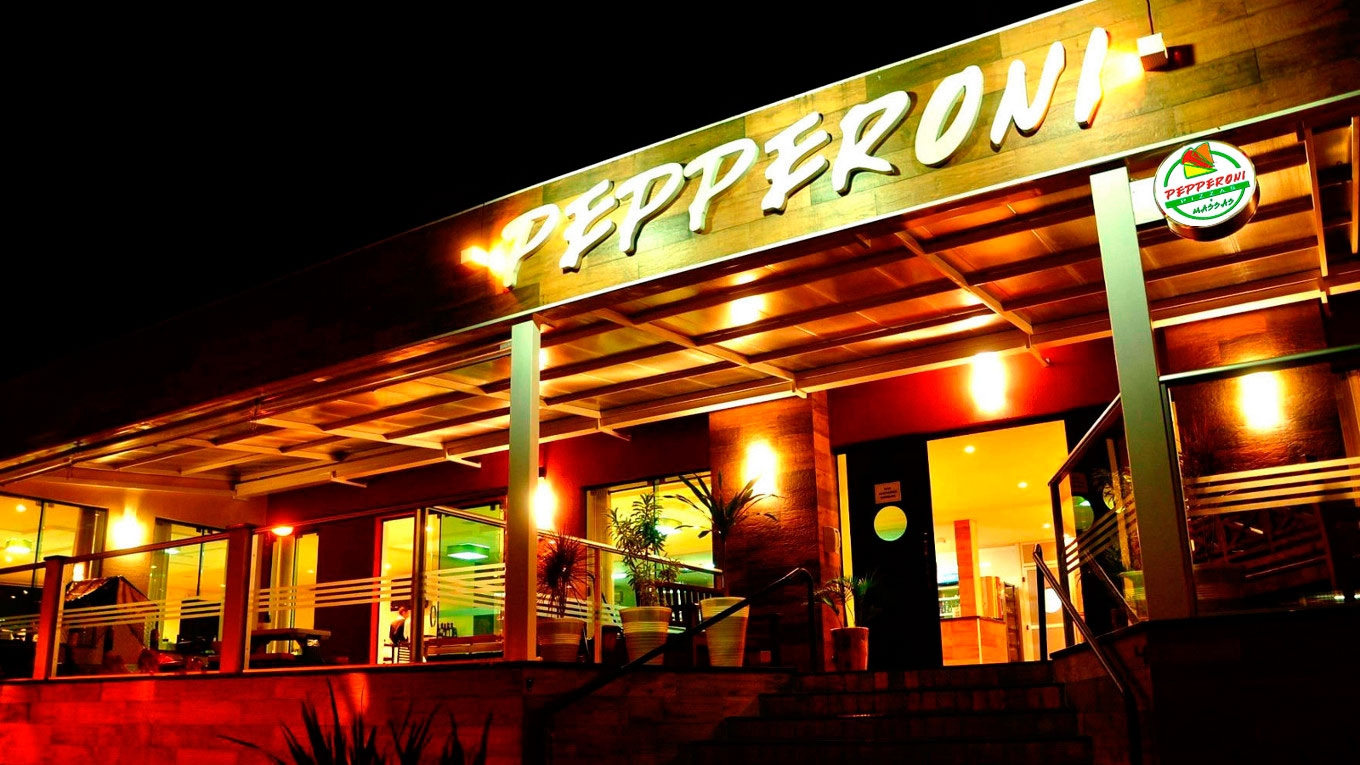
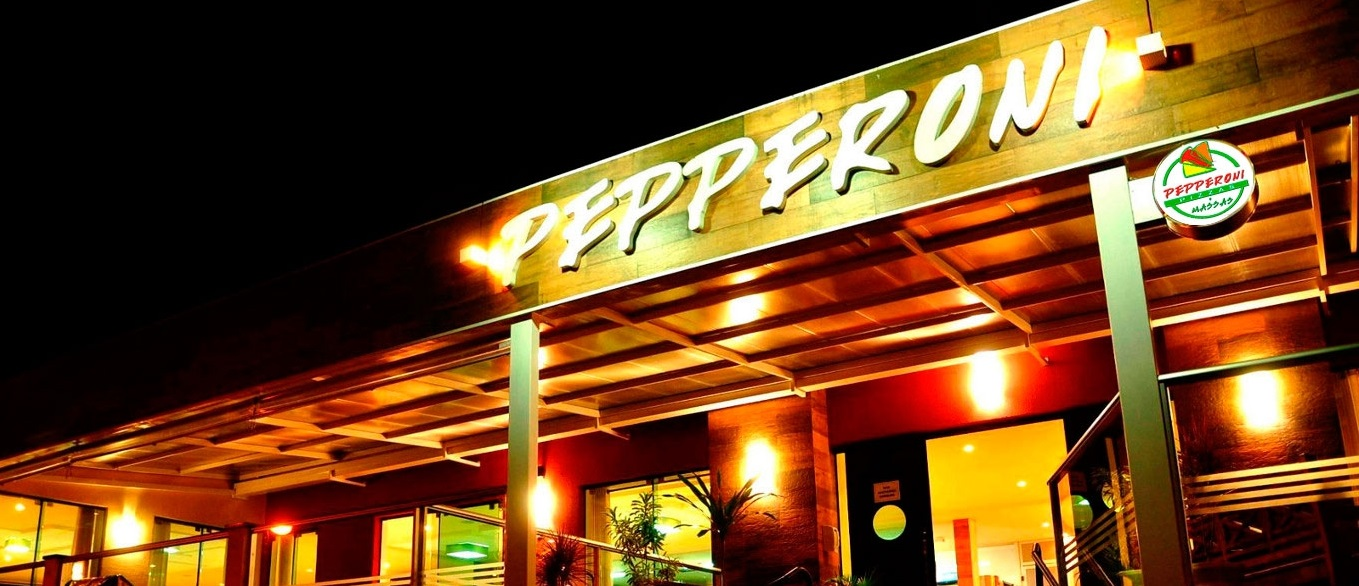
alterações

diff --git a/index.html b/index.html
@@ -24,10 +24,11 @@
 
       <div id="nossacasa">
         <h1>Nossa Casa</h1>
+        <hr/>
+        <div id="fachada">
+          <img src="_imagens/FachadaPizzaria.jpg">
+        </div>
         <p>Em 1999, Carlos de Toledo Domenico criou a PIZZARIA Domenico, unindo a tradição da pizza com a sofisticação informal. E não parou de crescer, evoluir, adotando o lema: “Atender à expectativa dos clientes” como sinônimo de qualidade.</p>
-          <div id="fachada">
-            <img src="_imagens/FachadaPizzaria.jpg">
-          </div>
         <p>A localização tornou-se privilegiada: Haddock Lobo X Alameda Tietê, a porta de entrada dos Jardins. O investimento constante nas instalações, produtos e serviços, faz com que a DOMENICO seja considerada um dos clássicos, na terra das pizzarias.</p>
         <p>Todos os recursos são colocados à disposição dos funcionários, para que a filosofia desde a fundação continue: SERVIR PIZZAS COM DEDICAÇÃO, CONHECIMENTO E ALEGRIA.</p>
       </div>

diff --git a/estilo.css b/estilo.css
@@ -42,15 +42,24 @@ html, body {
 }
 
 #nossacasa {
-  width: 70%;
+  width: 60%;
   right: 0;
   left: 0;
   margin: auto;
-  text-align: justify;
+}
+
+#nossacasa h1 {
   font-family: Tahoma;
   font-weight: bold;
   color: #a6a0a0;
-  font-size: 100%;
+}
+
+#nossacasa p {
+  font-family: Tahoma;
+  font-weight: bold;
+  color: #a6a0a0;
+  font-size: 90%;
+  text-align: left;
 }
 
 #nossacasa p:nth-of-type(1) {
@@ -60,6 +69,7 @@ html, body {
 
 #nossacasa p:nth-of-type(2) {
   width: 100%;
+  margin-right: 2%;
 }
 
 #nossacasa p:nth-of-type(3) {
@@ -68,13 +78,12 @@ html, body {
 
 #fachada {
   width: 55%;
+  float: right;
+  margin: 1%;
+  right: 0;
 }
 
 #fachada img {
   width: 100%;
-  position: static;
-  right: 0;
-  top: 0;
-  margin: auto;
-  float: right;
+  max-width: 450px;
 }
